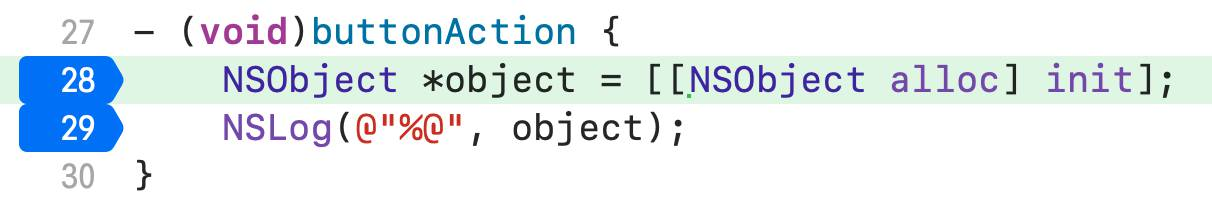
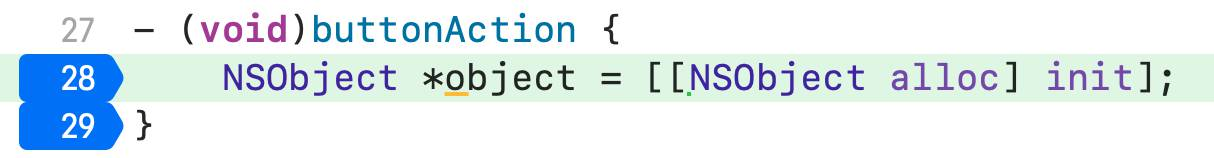
[update]README

Changed region(s): [[0.0, 0.0759, 1.0, 0.962]]

diff --git a/README.md b/README.md
@@ -297,22 +297,22 @@ Demo`-[ViewController buttonAction] + 40 at ViewController.m:28:24
 Demo`symbol stub for: objc_msgSend + 8
 libobjc.A.dylib`objc_msgSend + 76
 libobjc.A.dylib`-[NSObject init]
-Demo`-[ViewController buttonAction] + 56 at ViewController.m:29:18
+Demo`-[ViewController buttonAction] + 60 at ViewController.m:29:1
 [HMLLDB] ==========End========================================================
-[HMLLDB] Instruction count: 289
-[HMLLDB] Start time: 16:16:31
-[HMLLDB] Stop time: 16:16:32
-Process 2917 stopped
+[HMLLDB] Instruction count: 285
+[HMLLDB] Start time: 18:35:35
+[HMLLDB] Stop time: 18:35:36
+Process 11646 stopped
 * thread #1, queue = 'com.apple.main-thread', stop reason = breakpoint 2.1
-    frame #0: 0x0000000104046318 Demo`-[ViewController buttonAction](self=0x0000000145d0b5d0, _cmd="buttonAction") at ViewController.m:29:18
-   26  	
-   27  	- (void)buttonAction {
-   28  	    NSObject *object = [[NSObject alloc] init];
--> 29  	    NSLog(@"%@", object);
-    	                 ^
-   30  	}
-   31  	
-   32  	
+    frame #0: 0x0000000104216338 Demo`-[ViewController buttonAction](self=0x0000000104704d70, _cmd="buttonAction") at ViewController.m:29:1
+   26    
+   27    - (void)buttonAction {
+   28        NSObject *object = [[NSObject alloc] init];
+-> 29    }
+      ^
+   30    
+   31    
+   32    
 Target 0: (Demo) stopped.
 ```
 
